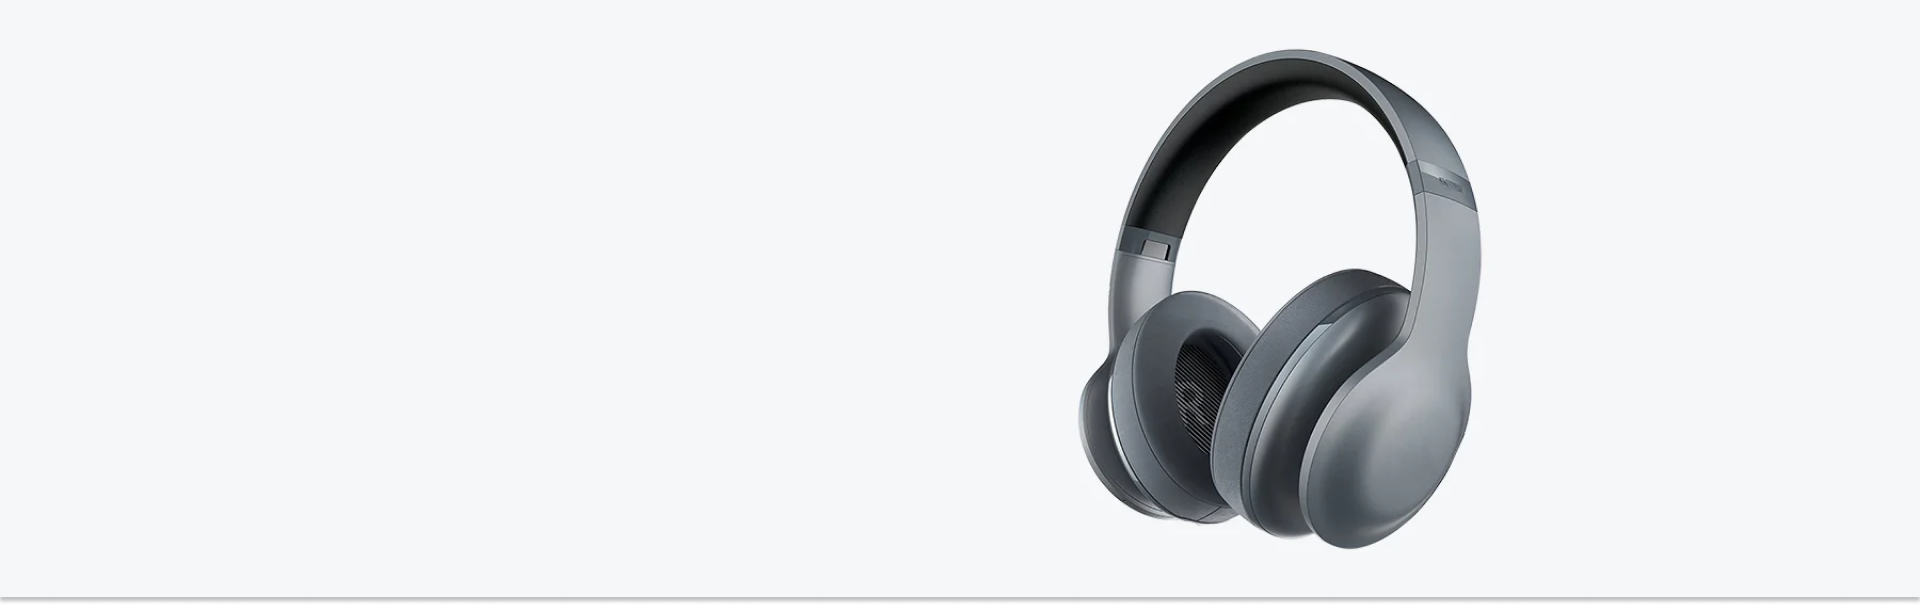
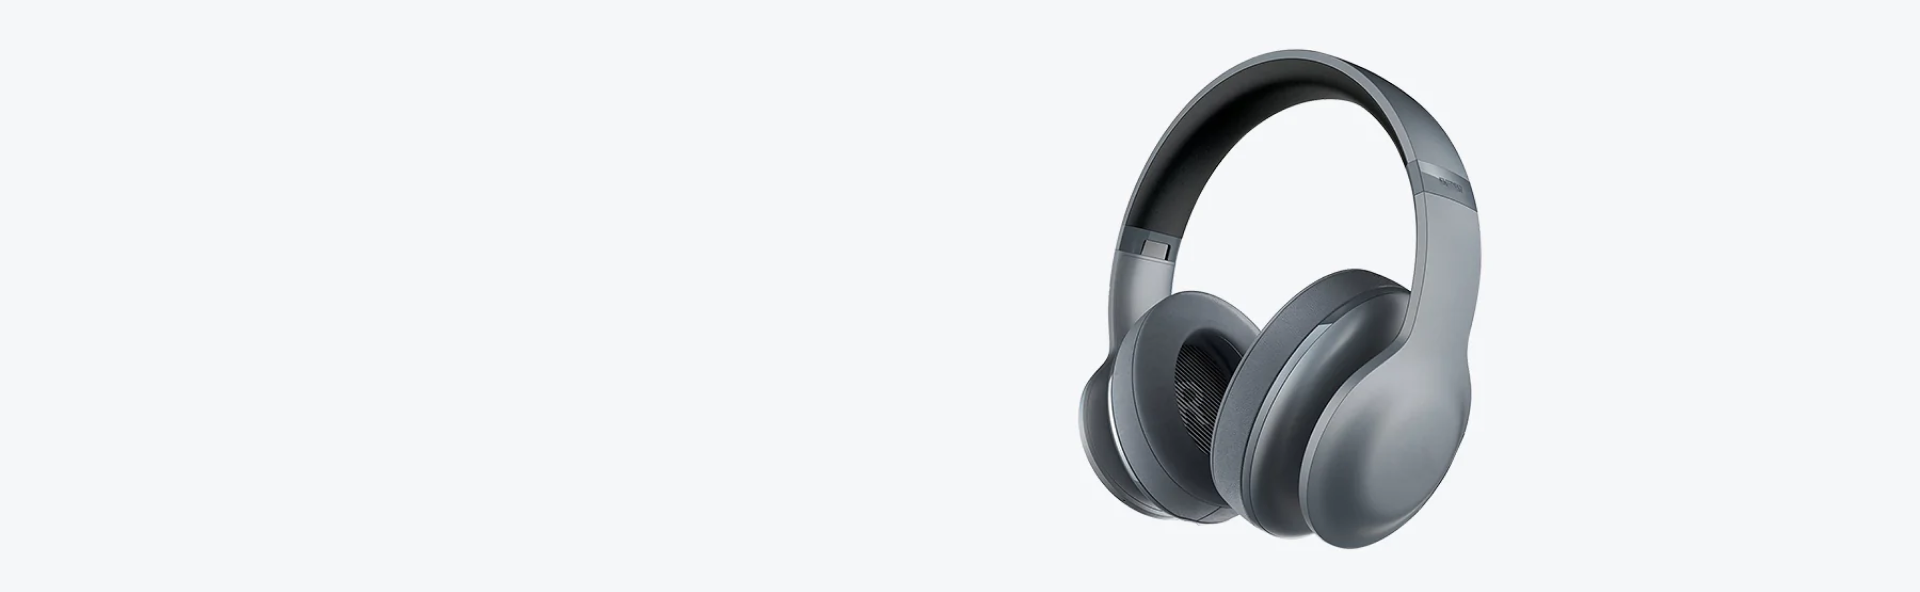
update

diff --git a/React-Ecommerce-Orebi/src/organisms/Banner.jsx b/React-Ecommerce-Orebi/src/organisms/Banner.jsx
@@ -1,10 +1,13 @@
 import React from "react";
+import Image from "../atoms/Image";
+import BannerImage1 from "../assets/banner-slider-1.png";
 import Slider from "react-slick";
 import "slick-carousel/slick/slick.css";
 
 const Banner = () => {
     var settings = {
         dots: true,
+        arrows: false,
         infinite: true,
         speed: 500,
         slidesToShow: 1,
@@ -12,8 +15,8 @@ const Banner = () => {
     };
     return (
         <Slider {...settings}>
-            <div className="bg-red-800">
-                <h3>1</h3>
+            <div>
+                <Image imgSrc={BannerImage1} />
             </div>
             <div>
                 <h3>2</h3>
